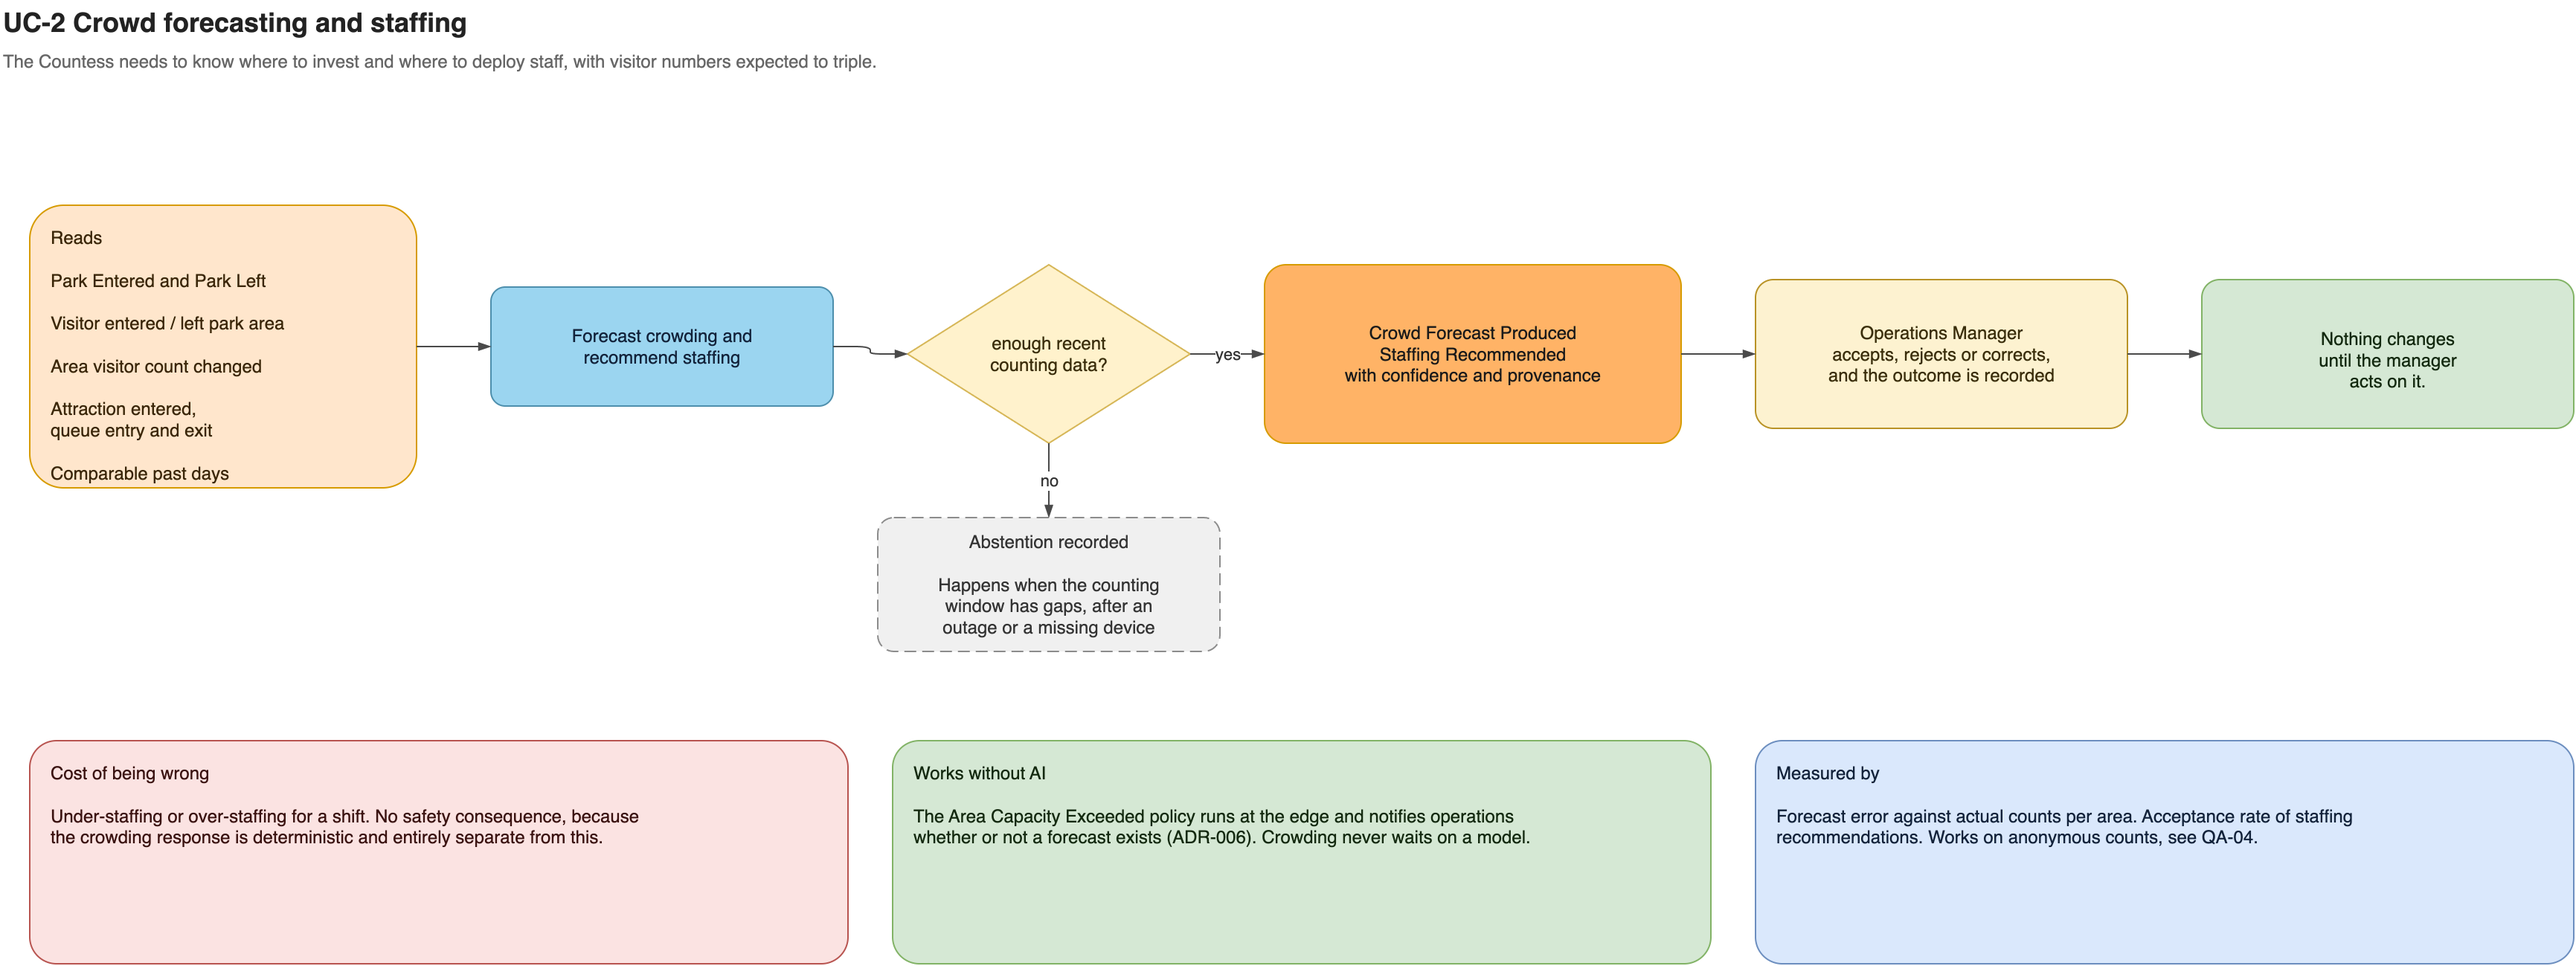
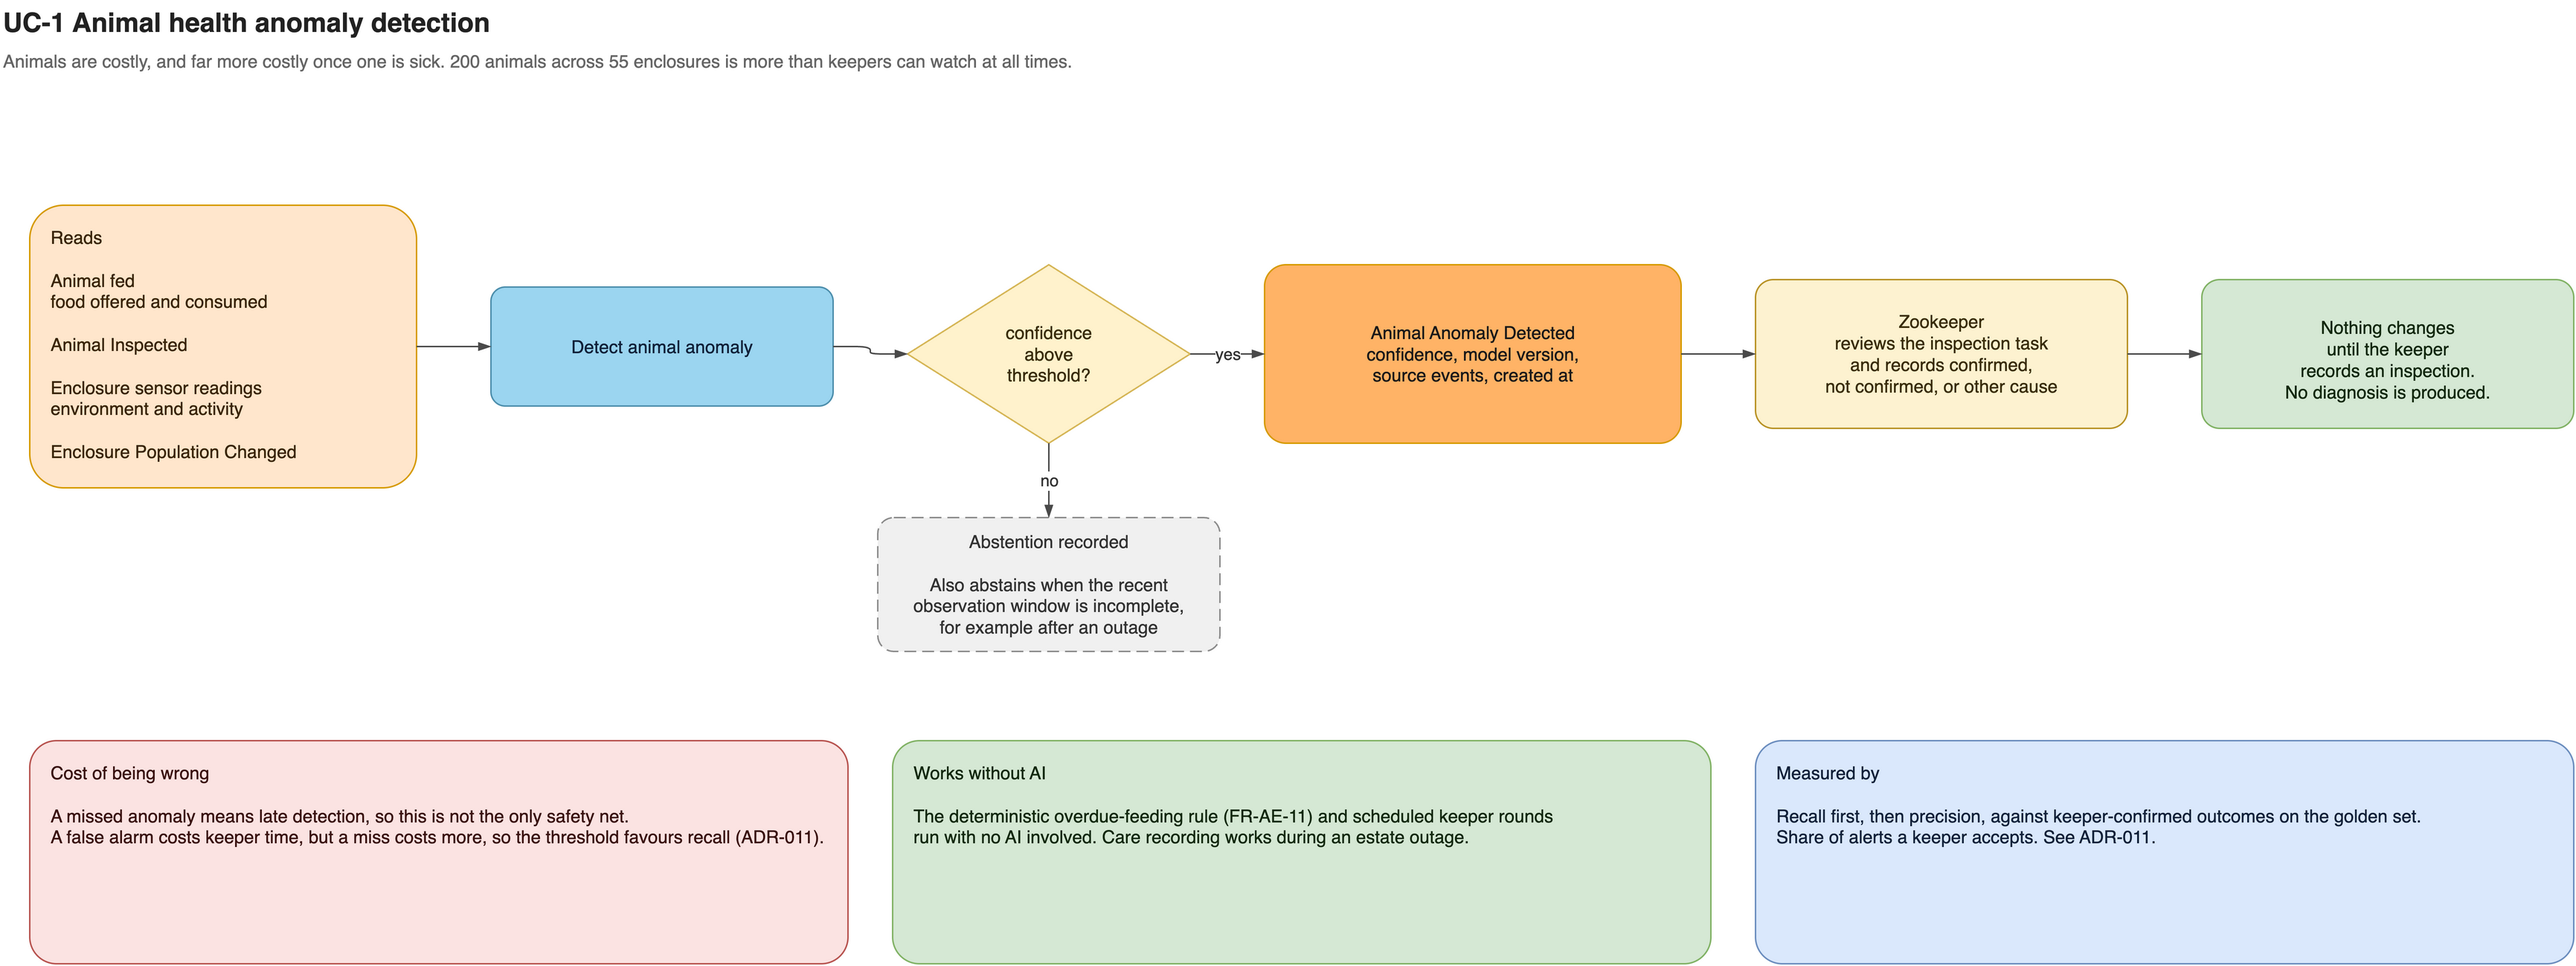
Align docs and diagrams with ADR-004, ADR-007, ADR-011, ADR-012 and ADR-016

diff --git a/README.md b/README.md
@@ -44,24 +44,29 @@ matters was waiting on a model.
 |---|---|---|
 | 1 | [System context](diagrams/context-estate.png) | Who uses the estate, and the one boundary that matters: cloud vs estate |
 | 2 | [ADR-003, deterministic core with advisory AI](adrs/adr-003-deterministic-core-advisory-ai.md) | The decision everything else follows from |
-| 3 | [Cloud authority with estate continuity](diagrams/architecture-cloud-estate.png) | How the estate keeps working when the cloud does not |
+| 3 | [Cloud and estate, two modular monoliths](diagrams/architecture-cloud-estate.png) | How the estate keeps working when the cloud does not |
 | 4 | [ADR-016, architecture style](adrs/adr-016-architecture-style.md) | Which styles we compared, against which characteristics, and why two services |
 
 ---
 
 ## How it works
 
-**The cloud is the authoritative system of record.** It holds long-term records and event
-history, serves the visitor website, and runs the business services for all seven domains.
+**The cloud platform is the authoritative system of record.** It is one modular monolith
+with a module per bounded context. It keeps the authoritative event log and serves the
+visitor website.
 
-**The estate keeps working without it.** An Estate Edge Hub holds a small cache of signing
-keys, validation rules and daily plans, plus a lightweight local database of current state
-and pending events. Gates verify signed tickets offline against a cached public key.
+**The estate keeps working without it.** A park service on the Estate Edge Hub, a second
+and smaller modular monolith, runs admission, ride safety policies and animal-care
+recording from its own local event log and a small cache of signing keys, validation
+rules and daily plans. Gates verify signed tickets offline against a cached public key.
 Deterministic safety policies, such as *a ride with a safety fault cannot operate*, execute
-at the edge so they survive an outage ([ADR-006](adrs/adr-006-policies-execute-at-edge.md)).
+at the edge so they survive an outage ([ADR-006](adrs/adr-006-policies-execute-at-edge.md),
+[ADR-016](adrs/adr-016-architecture-style.md)).
 
-**Events flow one way out, a small cache flows one way in.** Locally captured events stay
-pending until the cloud acknowledges them. Ingestion deduplicates by event ID, so a retry
+**Events go up and a small cache comes down, over one WebSocket connection.** Locally
+captured events stay pending until the cloud acknowledges them, and both sides resume
+from the last acknowledgement after an outage
+([ADR-007](adrs/adr-007-estate-cloud-sync-protocol.md)). Ingestion deduplicates by event ID, so a retry
 or an at-least-once redelivery never creates a duplicate charge, ticket or business event.
 
 **AI consumes recorded facts and returns recommendations.** It produces anomaly alerts,
@@ -78,8 +83,8 @@ Each is a `.drawio` source with a rendered `.png` beside it.
 | Diagram | Shows |
 |---|---|
 | [System context](diagrams/context-estate.png) | Actors, the platform boundary, and the two external systems we depend on |
-| [Cloud and estate](diagrams/architecture-cloud-estate.png) | Containers on both sides of the boundary and what crosses it |
-| [Connectivity tiers](diagrams/connectivity-tiers.png) | One link type per job (Ethernet/PoE, Wi-Fi, LoRaWAN/Thread) and why |
+| [Cloud and estate](diagrams/architecture-cloud-estate.png) | Both modular monoliths, their modules, and the WebSocket connection between them |
+| [Connectivity tiers](diagrams/connectivity-tiers.png) | One link type per job (Ethernet/PoE, Wi-Fi, LoRaWAN) and why |
 | [EventStorming by domain boundary](eventstorming/01-eventstorming-by-domain-boundary.png) | The full domain model, mapped to the seven bounded contexts |
 | [Domain boundaries and event flow](eventstorming/02-domain-boundaries-event-flow.png) | Which events cross which boundary |
 | [Cross-domain policies](eventstorming/03-cross-domain-policies.png) | Every policy, with the owning boundary on each side |
@@ -188,9 +193,9 @@ The quality attributes also name what we deliberately did **not** optimise for.
 We have kept open questions visible rather than presenting them as settled:
 
 - The longest outage the estate must bridge, and how the estate and the cloud authenticate each other ([ADR-007](adrs/adr-007-estate-cloud-sync-protocol.md)).
-- How long a gate may run offline, and the acceptable duplicate-ticket risk ([ADR-008](adrs/adr-008-signed-offline-ticket-validation.md)).
+- The maximum age of a gate's cached keys and rules ([ADR-008](adrs/adr-008-signed-offline-ticket-validation.md)). Duplicate use at isolated gates is decided: admit, then resolve after synchronization.
 - Retention periods for visitor data, proposed but not agreed ([ADR-013](adrs/adr-013-privacy-consent-retention.md)).
-- The identity and authorization model ([ADR-012](adrs/adr-012-identity-authorization-attribution.md)).
+- Whether one-way staff provisioning and offline staff sign-in work in practice ([ADR-012](adrs/adr-012-identity-authorization-attribution.md)).
 - Whether Ticketing becomes its own cloud service ([ADR-016](adrs/adr-016-architecture-style.md)).
 - The acceptance threshold at which an AI use case may leave full human review ([ADR-011](adrs/adr-011-ai-evaluation-human-review.md)). The use cases themselves are chosen in [ADR-015](adrs/adr-015-first-release-ai-use-cases.md).
 

diff --git a/quality-attributes.md b/quality-attributes.md
@@ -1,7 +1,7 @@
 # Quality Attributes
 
 These are the criteria the architecture is judged against. Functional behaviour is in
-[Functional Requirements](functional-requirements.md); the decisions that serve these
+[Functional Requirements](functional-requirements.md). The decisions that serve these
 attributes are in [adrs/](adrs).
 
 Each scenario states what happens, what we measure, and what the choice costs. Numbers
@@ -33,7 +33,7 @@ distributed like an application rather than treated as a buffer.
 produces a high-confidence animal anomaly.
 
 **Response.** The fault closes the ride through a deterministic policy running at the Edge
-Hub. The anomaly creates an inspection task for a keeper; it never changes a ride, a gate
+Hub. The anomaly creates an inspection task for a keeper. It never changes a ride, a gate
 or a care record.
 
 **Measure.** No path exists by which an AI output issues a command that changes payments,
@@ -122,8 +122,8 @@ streams estate events to the cloud over one connection with cumulative acknowled
 so no gate ever waits on a cloud round trip.
 
 **Measure.** Gate validation completes within **1 second** at the gate, with no cloud round
-trip. *Proposed.* 15,000 visitors per day is not a scale driver for the cloud application;
-a separate deployment needs evidence, not growth alone.
+trip. *Proposed.* 15,000 visitors per day is not a scale driver for the cloud application.
+A separate deployment needs evidence, not growth alone.
 
 **Cost.** During an outage the cloud lags the estate until the stream has caught up.
 Reporting is eventually correct, not live.
@@ -135,7 +135,7 @@ Reporting is eventually correct, not live.
 **Scenario.** Someone copies a valid ticket and presents it at a second gate during an
 outage. Separately, an unknown device attempts to publish events.
 
-**Response.** Tickets are signed, not secret; the gate verifies the signature with a cached
+**Response.** Tickets are signed, not secret. The gate verifies the signature with a cached
 public key and applies cached eligibility rules. Devices and staff actions are
 attributable.
 
@@ -145,8 +145,9 @@ Every consequential action records which person or device performed it and when.
 **Cost.** Offline verification cannot detect reuse across disconnected gates. That is a
 business risk to be bounded, not a cryptography problem.
 
-**Open.** The duplicate-ticket policy and the identity and authorization model are not
-decided.
+**Open.** Duplicate use at isolated gates is decided: admit, then resolve after
+synchronization ([ADR-008](adrs/adr-008-signed-offline-ticket-validation.md)). Offline staff sign-in through an estate identity provider is
+proposed and still has to be proven ([ADR-012](adrs/adr-012-identity-authorization-attribution.md)).
 
 ---
 
@@ -167,7 +168,7 @@ decided.
 
 - **Low latency of AI recommendations.** People review consequential findings, so minutes
   are acceptable.
-- **Live cloud reporting during an outage.** Catching up after reconnect is enough;
-  correctness matters more than freshness.
+- **Live cloud reporting during an outage.** Catching up after reconnect is enough.
+  Correctness matters more than freshness.
 - **Horizontal scalability of the cloud application.** 15,000 visitors per day does not
   require it, and a modular monolith can be split later.

diff --git a/ai-use-cases.md b/ai-use-cases.md
@@ -46,11 +46,11 @@ records. The model never produces a diagnosis.
 
 **Cost of being wrong.** A missed anomaly means a late detection, which is why it is not
 the only safety net. The deterministic overdue-feeding rule (FR-AE-11) and scheduled keeper
-rounds run without AI. A false alarm costs keeper time, which is why precision is the
-threshold we tune.
+rounds run without AI. A false alarm costs keeper time, but a missed anomaly costs more,
+so the threshold favours recall over precision ([ADR-011](adrs/adr-011-ai-evaluation-human-review.md)).
 
-**Measured by.** Precision and recall against keeper-confirmed outcomes on the ground-truth
-set, plus the share of alerts a keeper accepts.
+**Measured by.** Recall first, then precision, against keeper-confirmed outcomes on the
+golden set, plus the share of alerts a keeper accepts.
 
 ---
 
@@ -158,7 +158,7 @@ consent model exists is the fastest way to turn a nice feature into a regulatory
 | Input | Recorded facts only. Never another model's unreviewed output. |
 | Output | A recommendation record with confidence, model or rule version, source events and creation time. |
 | Uncertainty | Abstention is a valid result and is recorded. |
-| Authority | A person or a deterministic rule decides. The model never commands. |
+| Authority | A person or a deterministic rule decides. The model never commands. Review starts in full and may relax to sampling once a use case earns it, never for the actions ADR-003 protects ([ADR-011](adrs/adr-011-ai-evaluation-human-review.md)). |
 | Degradation | If the provider is unavailable, the use case produces nothing and estate operations are unaffected. |
-| Evaluation | Scored against a ground-truth set before release and monitored after. See [ADR-011](adrs/adr-011-ai-evaluation-human-review.md). |
+| Evaluation | Scored against a golden set before release and monitored after. See [ADR-011](adrs/adr-011-ai-evaluation-human-review.md). |
 | Provenance | Sensor observation, AI inference, keeper decision and confirmed diagnosis stay separately identifiable (FR-AE-09). |

diff --git a/adrs/adr-009-modular-monolith.md b/adrs/adr-009-modular-monolith.md
@@ -24,7 +24,7 @@ The cloud platform is one deployable application with one module per bounded con
 - Modules do not share database tables. A module reads another module's data only through its published domain events or an explicit interface. See ADR-005.
 - A module is extracted into a separate deployment only with a concrete scaling, ownership or reliability reason, recorded in a new ADR.
 
-The Estate Edge Hub is a separate deployment for a stated reliability reason: it must run when the cloud is unreachable.
+The park service on the Estate Edge Hub is a separate deployment for a stated reliability reason: it must run when the cloud is unreachable. [ADR-016](adr-016-architecture-style.md) records it as a second, smaller modular monolith.
 
 ## Consequences
 
